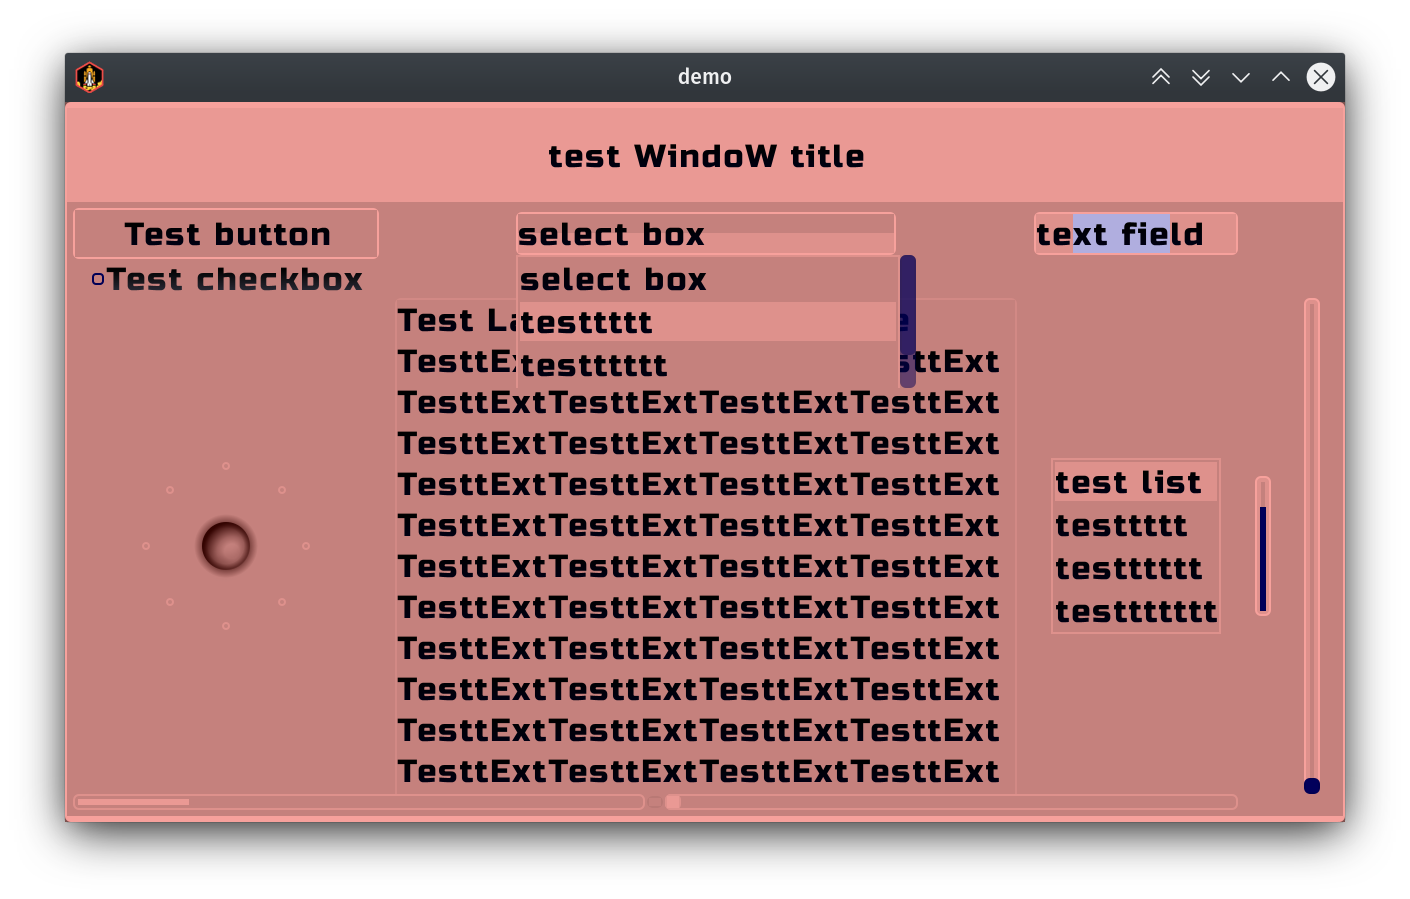
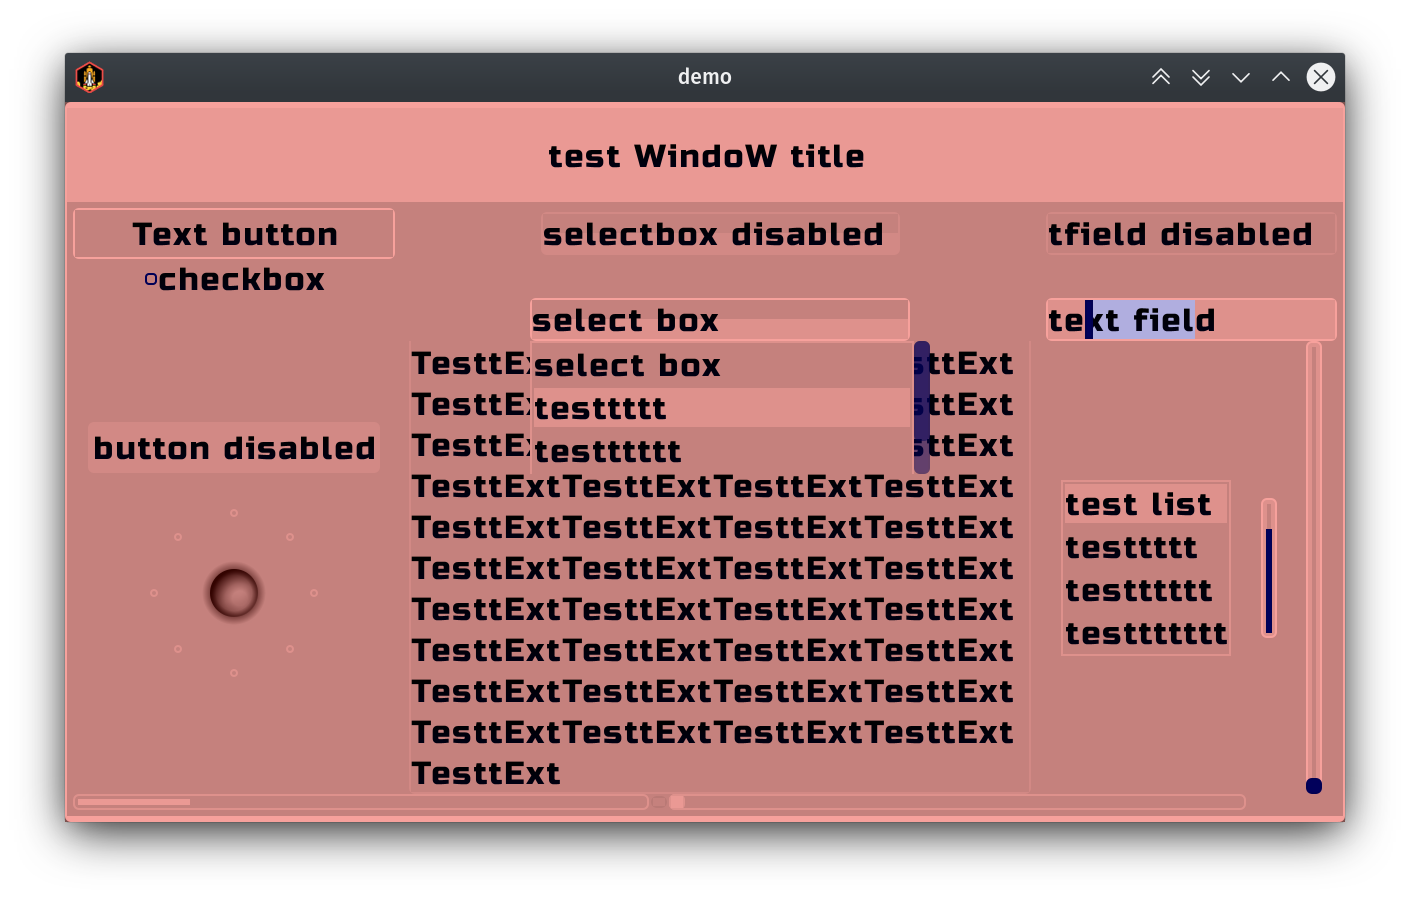
sun checked

diff --git a/demo13x/core/src/main/kotlin/colorstepskin/StyleCreatorSun.kt b/demo13x/core/src/main/kotlin/colorstepskin/StyleCreatorSun.kt
@@ -44,10 +44,8 @@ fun createSunStyle(css:ColorStepSkin){
             checkSun[hue].checkboxOff = newDrawable(getDrawable("check-off"), hueL)
             checkSun[hue].checkboxOffDisabled = newDrawable(getDrawable("check-off"), hueD)
             checkSun[hue].checkboxOnDisabled = newDrawable(getDrawable("check-on"), hueD)
-//            checkSun[hue].disabled = newDrawable(getDrawable("check-disabled"), hueD)
             checkSun[hue].font = defaultFont
             checkSun[hue].fontColor = hueL
-            checkSun[hue].disabledFontColor = hueD
         
             tfieldSun[hue].cursor = newDrawable(getDrawable("textfield-cursor"), hueL)
             tfieldSun[hue].selection = newDrawable(getDrawable("textfield-selection"), hueL)
@@ -159,12 +157,12 @@ fun createSunStyle(css:ColorStepSkin){
             tbuttonTextSun[hue].disabled = newDrawable(getDrawable("button-disabled"), opoL)
             tbuttonTextSun[hue].font = defaultFont
             tbuttonTextSun[hue].fontColor = hueL
+            tbuttonTextSun[hue].disabledFontColor = opoL
     
             checkTextSun[hue].checkboxOn = newDrawable(getDrawable("check-on"), hueL)
             checkTextSun[hue].checkboxOff = newDrawable(getDrawable("check-off"), hueL)
             checkTextSun[hue].checkboxOffDisabled = newDrawable(getDrawable("check-off"), opoL)
             checkTextSun[hue].checkboxOnDisabled = newDrawable(getDrawable("check-on"), opoL)
-//            checkTextSun[hue].disabled = newDrawable(getDrawable("check-disabled"), opoL)
             checkTextSun[hue].font = defaultFont
             checkTextSun[hue].fontColor = hueL
             checkTextSun[hue].disabledFontColor = opoL
@@ -176,6 +174,7 @@ fun createSunStyle(css:ColorStepSkin){
             tfieldTextSun[hue].focusedBackground = newDrawable(getDrawable("textfield-focused"), opoL)
             tfieldTextSun[hue].font = defaultFont
             tfieldTextSun[hue].fontColor = hueL
+            tfieldTextSun[hue].disabledFontColor = opoL
         
             tareaTextSun[hue] = tfieldTextSun[hue]
         
@@ -201,6 +200,7 @@ fun createSunStyle(css:ColorStepSkin){
             selectTextSun[hue].backgroundDisabled = newDrawable(getDrawable("select-disabled"), opoL)
             selectTextSun[hue].font = defaultFont
             selectTextSun[hue].fontColor = hueL
+            selectTextSun[hue].disabledFontColor = opoL
         
             progressTextSun[hue].background = newDrawable(getDrawable("progress-background"), opoL)
             progressTextSun[hue].disabledBackground = newDrawable(getDrawable("progress-disabledbackground"), opoL)
@@ -211,7 +211,7 @@ fun createSunStyle(css:ColorStepSkin){
             sliderTextSun[hue].disabledKnob = newDrawable(getDrawable("slider-disabledknob"), opoL)
             sliderTextSun[hue].background = newDrawable(getDrawable("progress-background"), opoL)
             sliderTextSun[hue].disabledBackground = newDrawable(getDrawable("progress-disabledbackground"), opoL)
-        
+            
             windowTextSun[hue].background = newDrawable(getDrawable("window-background"), opoL)
             windowTextSun[hue].stageBackground = newDrawable(getDrawable("window-stagebackground"), opoL)
             windowTextSun[hue].titleFont = defaultFont
@@ -280,9 +280,8 @@ fun createSunStyle(css:ColorStepSkin){
             checkFonSun[hue].checkboxOff = newDrawable(getDrawable("inverted-check-off"), opoD)
             checkFonSun[hue].checkboxOffDisabled = newDrawable(getDrawable("inverted-check-off"), hueL)
             checkFonSun[hue].checkboxOnDisabled = newDrawable(getDrawable("inverted-check-on"), hueL)
-//            checkFonSun[hue].disabled = newDrawable(getDrawable("inverted-check-disabled"), hueL)
             checkFonSun[hue].font = defaultFontFon
-            checkFonSun[hue].fontColor = opoL
+            checkFonSun[hue].fontColor = opoD
             checkFonSun[hue].disabledFontColor = hueL
             
             tfieldFonSun[hue].cursor = newDrawable(getDrawable("inverted-textfield-cursor"), opoD)

diff --git a/demo13x/core/src/main/kotlin/colorstepskin/ColorStepSkin.kt b/demo13x/core/src/main/kotlin/colorstepskin/ColorStepSkin.kt
@@ -433,7 +433,7 @@ class ColorStepSkin : Skin() {
         createSnowStyle(this)
         
         /*default*/
-        defaultAcid() /*short name binded to text sun scheme. Call other (declaired bottom) from this place , to make they default*/
+        defaultGum() /*short name binded to text sun scheme. Call other (declaired bottom) from this place , to make they default*/
         for (hue in 0..100){
             
             add("$hue", scroll[hue])
